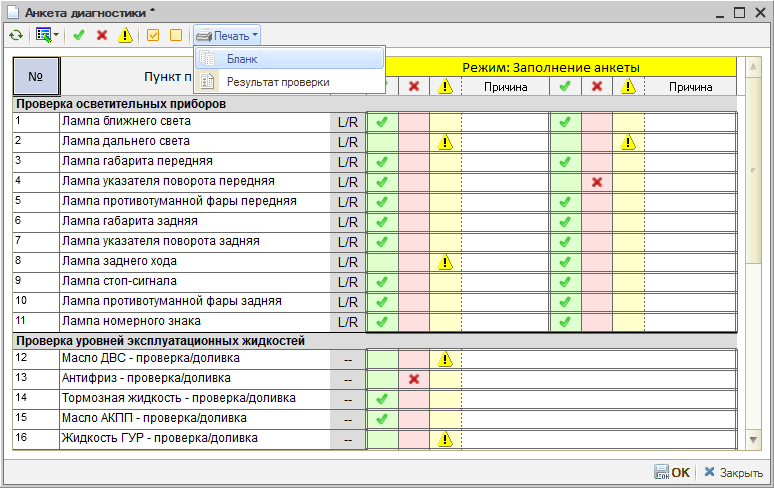
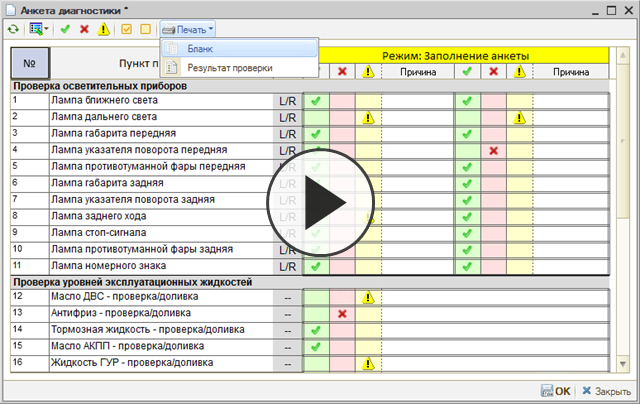
Use the prepared image as the webinar poster.

Changed region(s): [[0.4062, 0.3564, 0.5938, 0.6535], [0.25, 0.2079, 0.2812, 0.2376], [0.0938, 0.2079, 0.125, 0.2376]]

diff --git a/articles/5S AUTO/Проценка запчастей и работ/Диагностические анкеты/diagnosticheskie-ankety.md b/articles/5S AUTO/Проценка запчастей и работ/Диагностические анкеты/diagnosticheskie-ankety.md
@@ -189,7 +189,9 @@
 
 ## Видео по теме
 
-**[Курс «Диагностические анкеты» — вебинар 5SYSTEMS 09.12.2020](https://www.youtube.com/watch?v=zdsD17fXSy0)** ([запись на edu.5systems.ru](https://edu.5systems.ru/video/archive/Kurs_Diagnosticheskie_ankety-Vebinar_5SYSTEMS_09.12.2020.mp4)).
+**[Курс «Диагностические анкеты» — вебинар 5SYSTEMS 09.12.2020](https://www.youtube.com/watch?v=zdsD17fXSy0):**
+
+[![Курс «Диагностические анкеты» — вебинар 5SYSTEMS 09.12.2020](attachments/video.png)](https://edu.5systems.ru/video/archive/Kurs_Diagnosticheskie_ankety-Vebinar_5SYSTEMS_09.12.2020.mp4)
 
 ---
 
